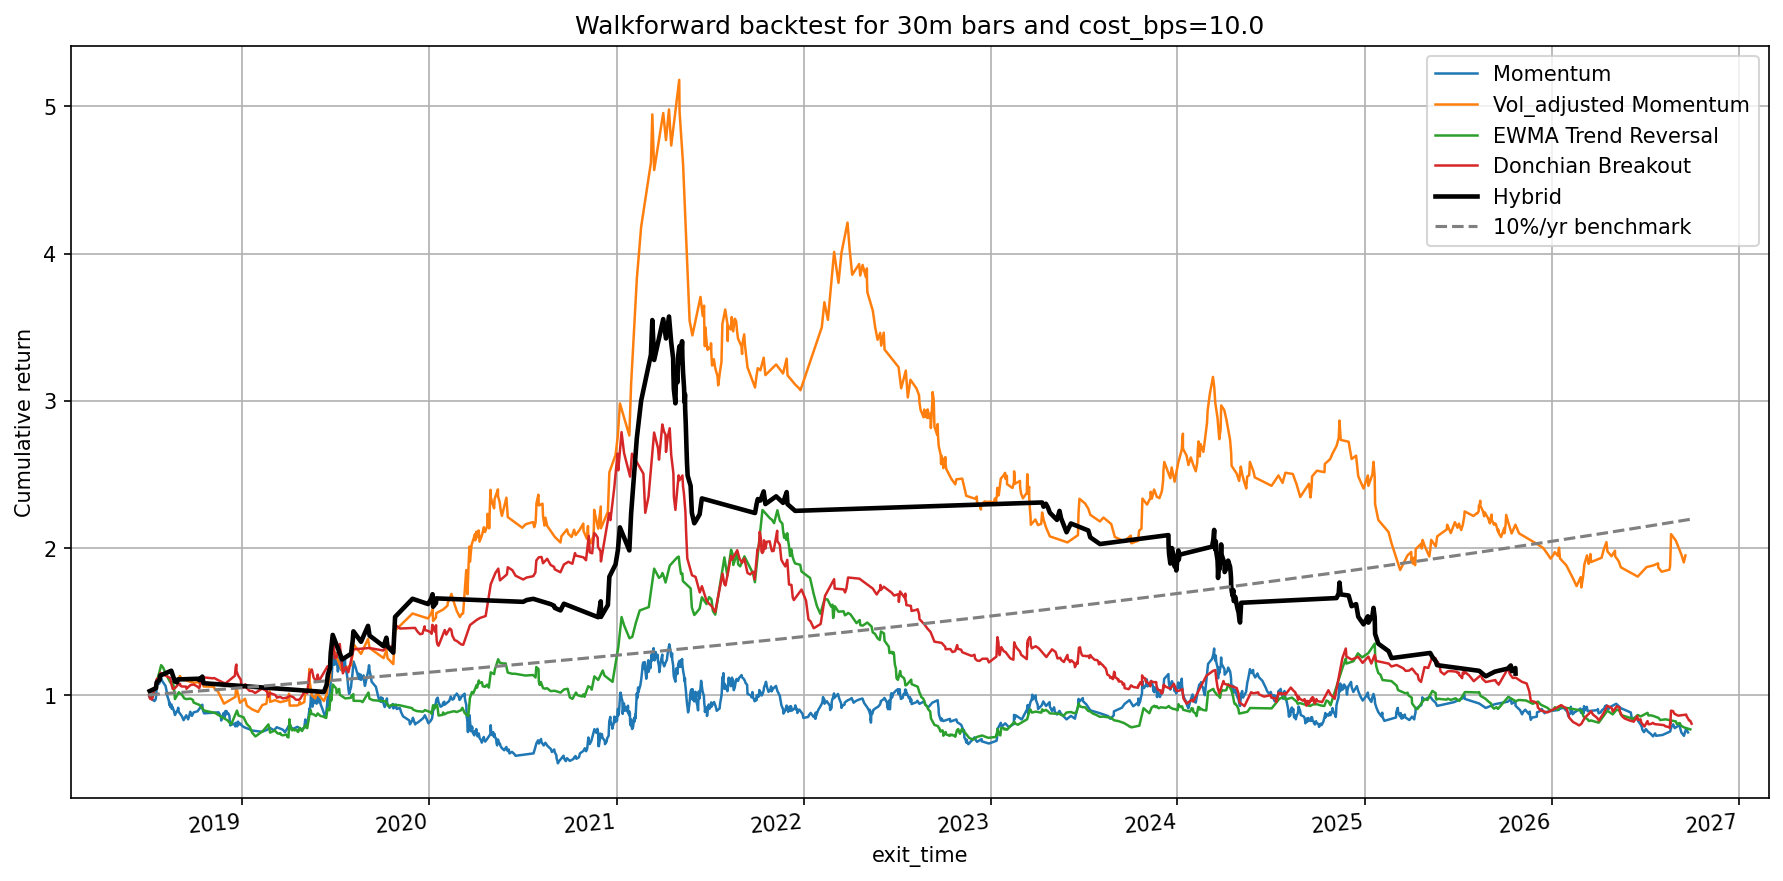
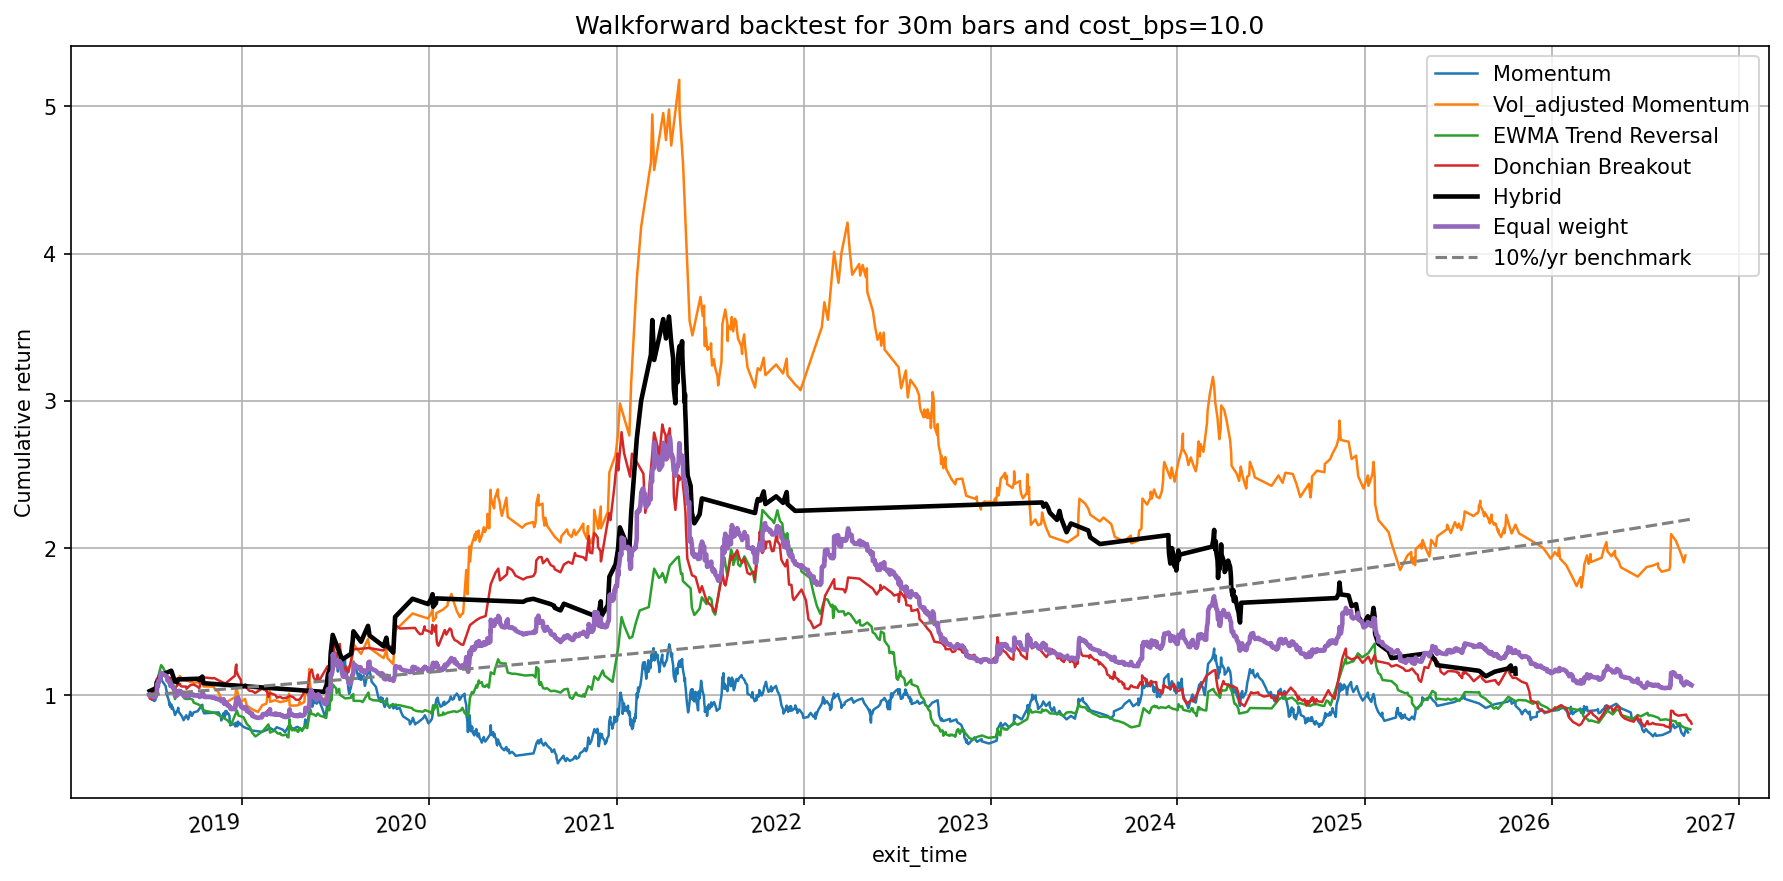
Added equal weight strat to the plots

diff --git a/src/walkforward_hybrid.py b/src/walkforward_hybrid.py
@@ -399,10 +399,17 @@ if __name__ == '__main__':
     years = (bench_idx - bench_idx[0]) / pd.Timedelta(days=365.25)
     rfr = 1.10
 
+    cum = pd.concat(
+        {s: c.groupby(level=0).last() for s, c in cum_df.items()}, axis=1
+    ).sort_index().ffill().fillna(1.0)
+
+    ew_static = cum.mean(axis=1)
+
     plt.figure(figsize=(12, 6))
     for col in combined_df.columns:
         style = {'lw': 2.2, 'color': 'black'} if col == 'hybrid' else {'lw': 1.2}
         combined_df[col].dropna().plot(label=labels.get(col, col), **style)
+    ew_static.plot(label = 'Equal weight', lw=2.2)
     pd.Series(rfr ** years, index=bench_idx).plot(
         label=f'{int((rfr - 1) * 100)}%/yr benchmark', ls='--', color='grey')
     plt.legend()
@@ -470,10 +477,17 @@ if __name__ == '__main__':
     years = (bench_idx - bench_idx[0]) / pd.Timedelta(days=365.25)
     rfr = 1.10
 
+    cum = pd.concat(
+        {s: c.groupby(level=0).last() for s, c in cum_df.items()}, axis=1
+    ).sort_index().ffill().fillna(1.0)
+
+    ew_static = cum.mean(axis=1)
+
     plt.figure(figsize=(12, 6))
     for col in combined_df.columns:
         style = {'lw': 2.2, 'color': 'black'} if col == 'hybrid' else {'lw': 1.2}
         combined_df[col].dropna().plot(label=labels.get(col, col), **style)
+    ew_static.plot(label = 'Equal weight', lw=2.2)
     pd.Series(rfr ** years, index=bench_idx).plot(
         label=f'{int((rfr - 1) * 100)}%/yr benchmark', ls='--', color='grey')
     plt.legend()
@@ -544,10 +558,17 @@ if __name__ == '__main__':
     years = (bench_idx - bench_idx[0]) / pd.Timedelta(days=365.25)
     rfr = 1.10
 
+    cum = pd.concat(
+        {s: c.groupby(level=0).last() for s, c in cum_df.items()}, axis=1
+    ).sort_index().ffill().fillna(1.0)
+
+    ew_static = cum.mean(axis=1)
+
     plt.figure(figsize=(12, 6))
     for col in combined_df.columns:
         style = {'lw': 2.2, 'color': 'black'} if col == 'hybrid' else {'lw': 1.2}
         combined_df[col].dropna().plot(label=labels.get(col, col), **style)
+    ew_static.plot(label = 'Equal weight', lw=2.2)
     pd.Series(rfr ** years, index=bench_idx).plot(
         label=f'{int((rfr - 1) * 100)}%/yr benchmark', ls='--', color='grey')
     plt.legend()
@@ -560,6 +581,7 @@ if __name__ == '__main__':
     plt.savefig(f'results/{ticker}_all_walkforward_{interval}_{cost_bps}bps.png',
                 dpi=150, bbox_inches='tight')
     plt.show()
+
 
 
 # %%
@@ -620,10 +642,17 @@ if __name__ == '__main__':
     years = (bench_idx - bench_idx[0]) / pd.Timedelta(days=365.25)
     rfr = 1.10
 
+    cum = pd.concat(
+        {s: c.groupby(level=0).last() for s, c in cum_df.items()}, axis=1
+    ).sort_index().ffill().fillna(1.0)
+
+    ew_static = cum.mean(axis=1)
+
     plt.figure(figsize=(12, 6))
     for col in combined_df.columns:
         style = {'lw': 2.2, 'color': 'black'} if col == 'hybrid' else {'lw': 1.2}
         combined_df[col].dropna().plot(label=labels.get(col, col), **style)
+    ew_static.plot(label = 'Equal weight', lw=2.2)
     pd.Series(rfr ** years, index=bench_idx).plot(
         label=f'{int((rfr - 1) * 100)}%/yr benchmark', ls='--', color='grey')
     plt.legend()
@@ -636,3 +665,4 @@ if __name__ == '__main__':
     plt.savefig(f'results/{ticker}_all_walkforward_{interval}_{cost_bps}bps.png',
                 dpi=150, bbox_inches='tight')
     plt.show()
+

diff --git a/src/walkforward.py b/src/walkforward.py
@@ -112,14 +112,12 @@ def compute_rolling_params(
         t_start = df.index[t]
         t_stop = min(t + rebalance_freq, len(df))
         t_end = df.index[t_stop] if t_stop < len(df) else None    # exclusive bound
-        if verbose:
-            print(f'[{i}/{len(starts)}] {t_start:%Y-%m-%d} for {strategy}', flush=True)
 
         train = df.iloc[t - lookback : t].dropna()
         if len(train) < lookback:
             continue
 
-        optimal_params, _, _ = get_optimal_params(
+        optimal_params, score, ret = get_optimal_params(
             strategy=strategy,
             ticker=ticker,
             interval=interval,
@@ -136,6 +134,9 @@ def compute_rolling_params(
             params_log.append({'start': t_start})
             continue
         params_log.append({'start': t_start, **optimal_params})
+
+        if verbose:
+            print(f'[{i}/{len(starts)}] {t_start:%Y-%m-%d} for {strategy}, with score {score} and return {ret}', flush=True)
 
         full_optimal_params = base_params | optimal_params
 
